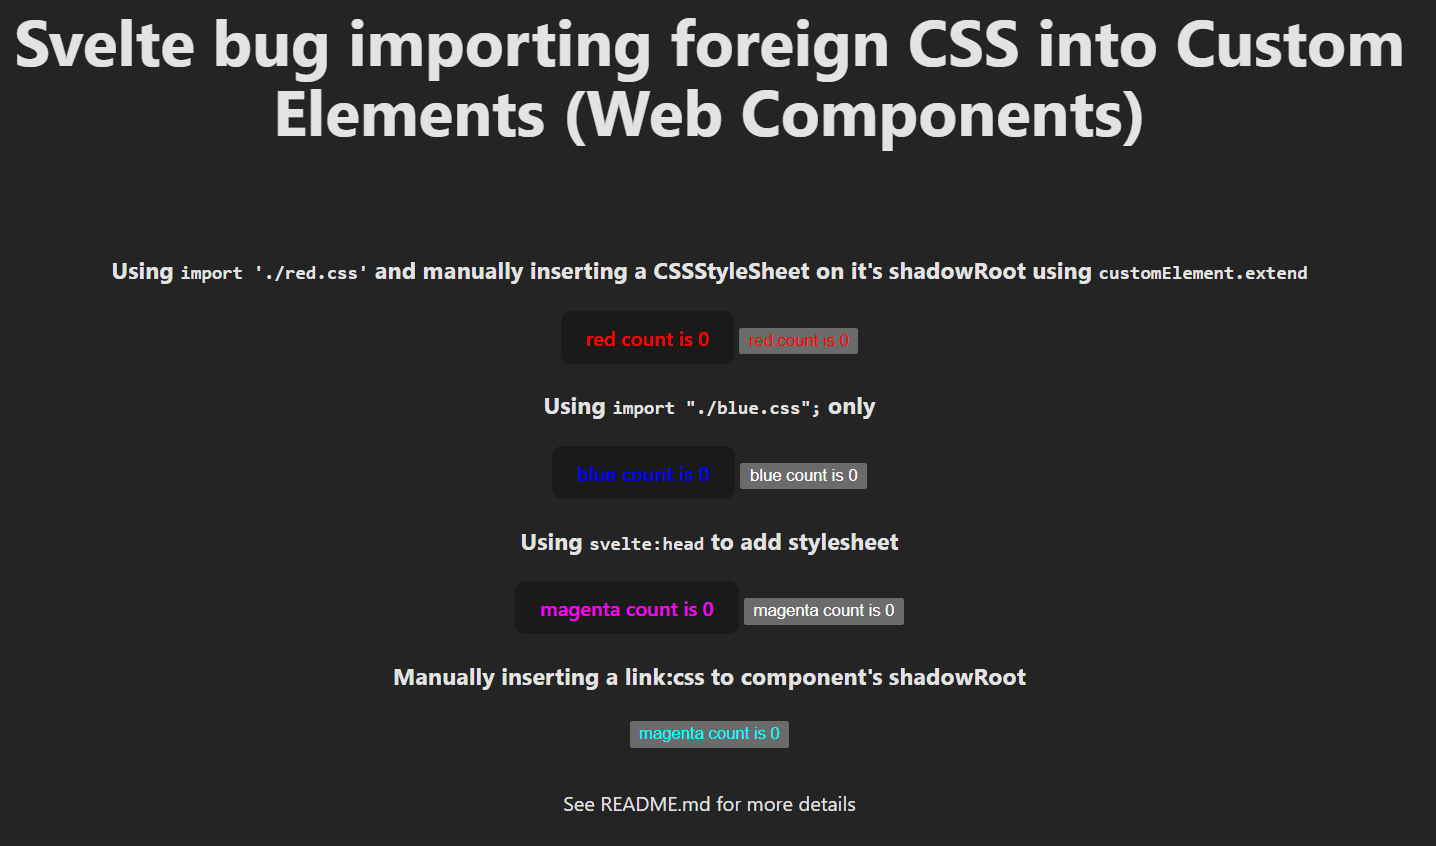
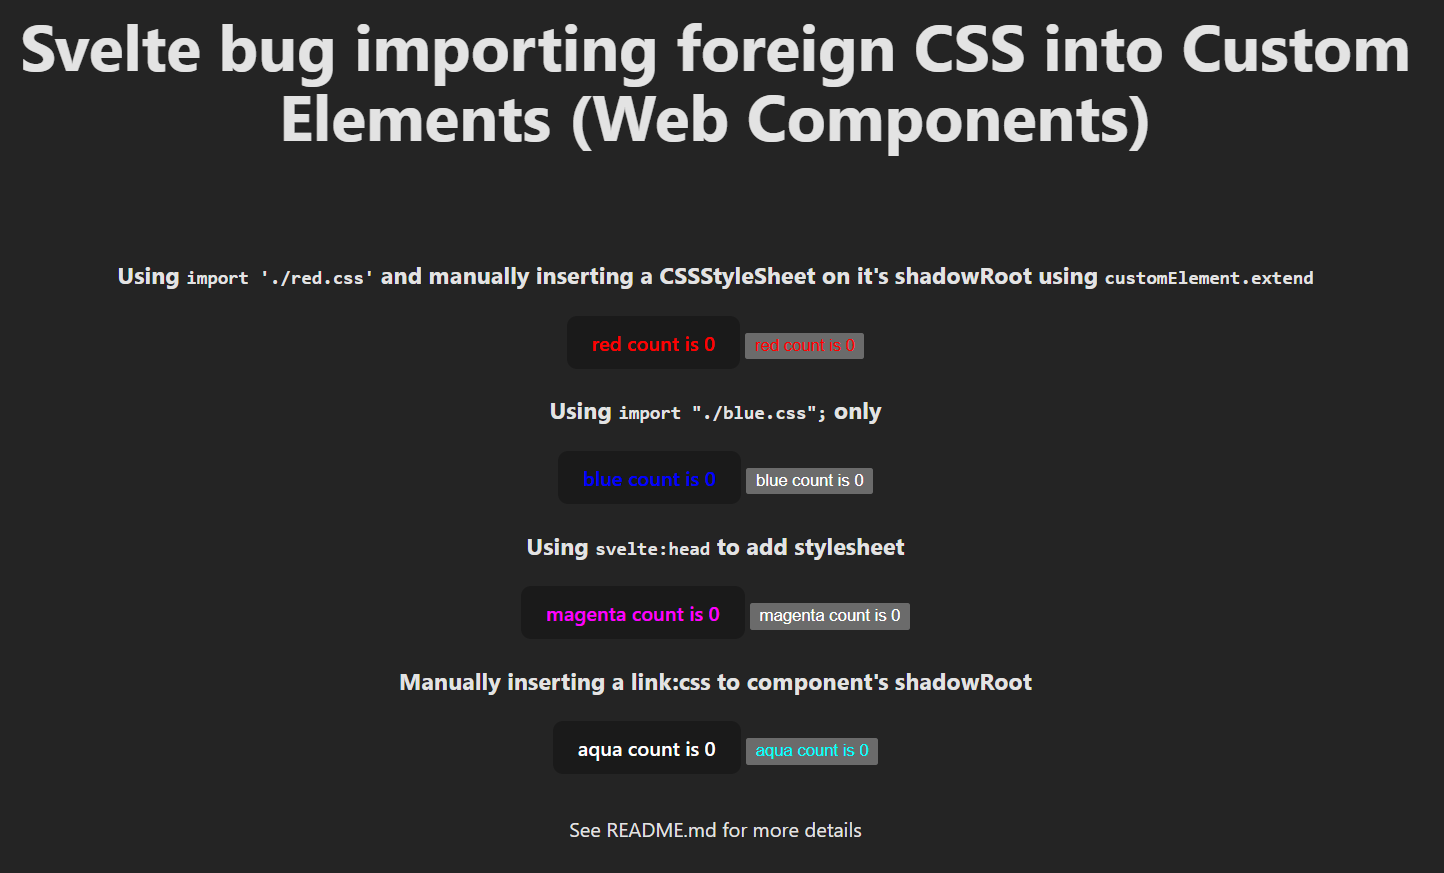
Update bug_demo.png to reflect latest code and example
- Add AquaCounter instance using Svelte for completeness

diff --git a/src/App.svelte b/src/App.svelte
@@ -2,7 +2,7 @@
   import Counter from "./lib/RedCounter.svelte";
   import BlueCounter from "./lib/BlueCounter.svelte";
   import MagentaCounter from "./lib/MagentaCounter.svelte";
-  import "./lib/AquaCounter.svelte";
+  import AquaCounter from "./lib/AquaCounter.svelte";
 </script>
 
 <main>
@@ -34,6 +34,7 @@
 
     <section>
       <h3>Manually inserting a link:css to component's shadowRoot</h3>
+      <AquaCounter />
       <aqua-counter></aqua-counter>
     </section>
   </div>

diff --git a/README.md b/README.md
@@ -54,7 +54,7 @@ Svelte does not handle external CSS imports correctly when compiling components 
 
 ## Workarounds
 
-The only reliable workaround is to use the `customElement.extend` option to manually inject styles into the shadow root. This can be done by either:
+The only reliable workaround is to use the `customElement.extend` option to manually inject styles into the shadow root. This can be done in two ways:
 
 - Creating a `CSSStyleSheet` and adding it to `shadowRoot.adoptedStyleSheets` (preferred, as it supports encapsulation and dynamic updates), or
 - Appending a `<link rel="stylesheet">` element directly to the shadow root (more limited, and does not easily support project-defined preprocessors like SCSS).
